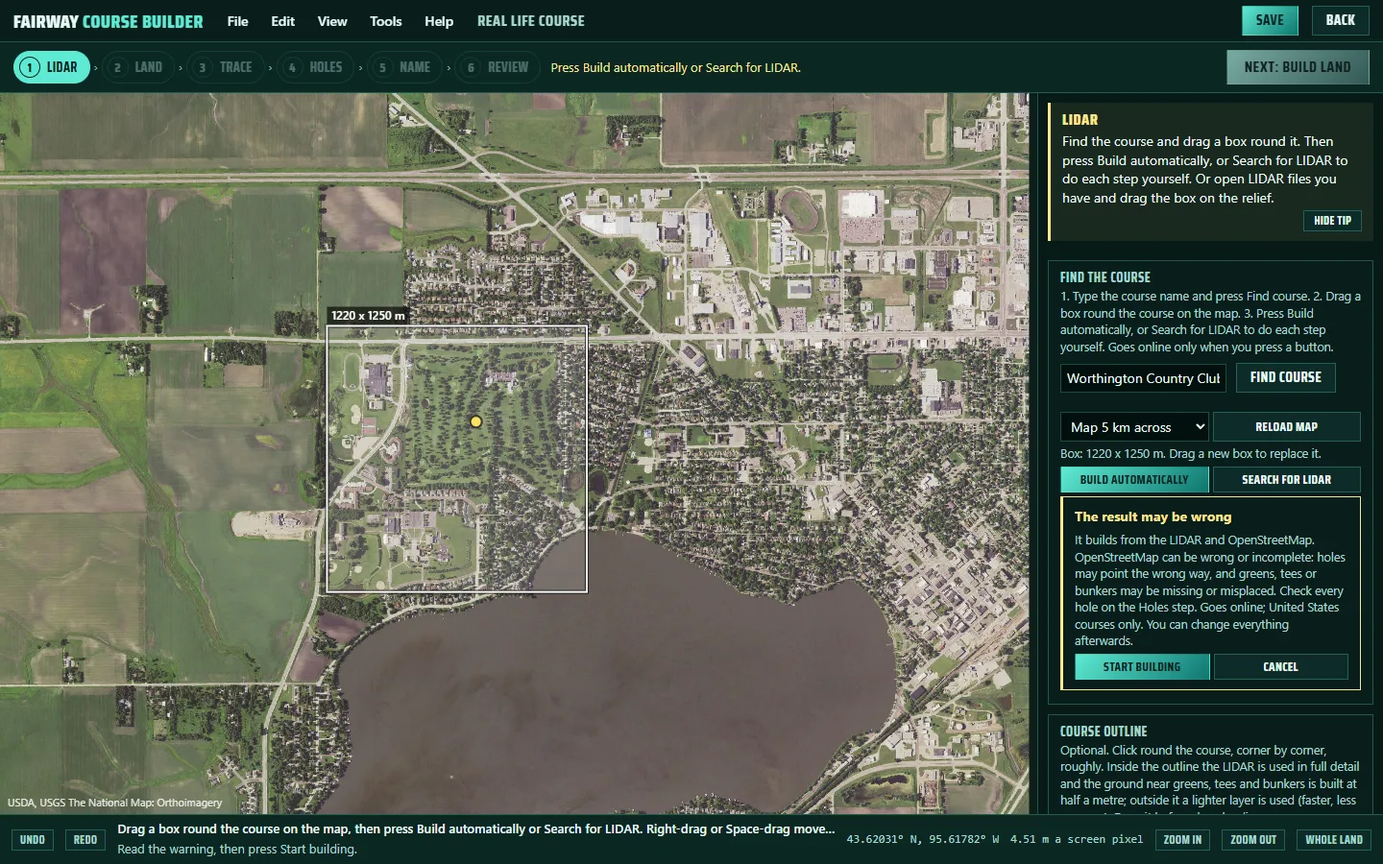
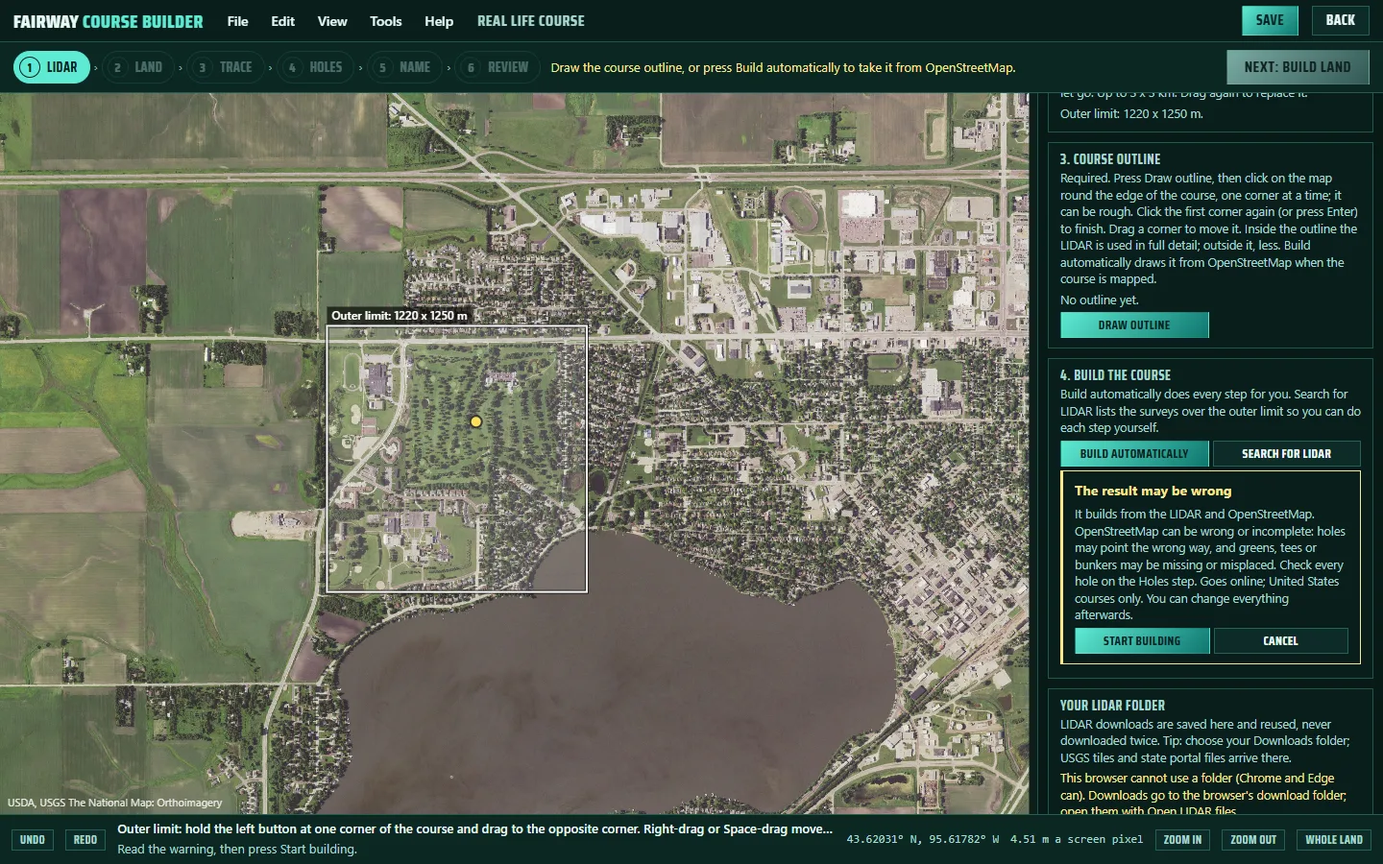
Builder: the course outline is required; the box is the outer limit
The owner, 23 November 2026: "The course boundary is not optional, then
also, we need to indicate that the box in the LIDAR step is the 'outer
limit' and how its drawn in simple terms."

- No download (Download box, Download all tiles) and no land (Next: build
  land, Build land) without the course's outline; Next waits and the step
  bar says "Draw the course outline". Clear outline went. Land already
  built (an older draft) stays reachable. Build automatically still takes
  OpenStreetMap's outline, or asks.
- Step 1's panel is four numbered parts in the order they are done: 1 Find
  the course, 2 Outer limit (what the box is, and how to drag it: point at
  one corner, hold the left button, drag to the opposite corner, let go),
  3 Course outline, 4 Build the course. The box reads "Outer limit" on the
  map, the relief, the status line and the messages.
- Journeys that build land or download draw an outline first
  (door-real.mjs drawOutline); builder-door-2-osm checks Next waits for it;
  the tee-colour check waits for the plan to draw.

Run: every builder journey (Worthington's included); builder-tips test.
Guide pictures retaken. Not yet seen by the owner.

diff --git a/src/builder/door-real.js b/src/builder/door-real.js
@@ -346,7 +346,7 @@ export function open(draft = null) {
  function showHint() {
   const k = LABEL(st.kind).toLowerCase(), r = st.size, view = 'Right-drag or Space-drag moves the view; the wheel zooms.', corners = n => `${n} node${n === 1 ? '' : 's'}: click to add more${n >= 3 ? ', click the first node to close' : ''}; Enter fills, Backspace takes the last off, Esc drops it.`;
   let t = '';
-  if (st.step === 0) t = st.map ? `Drag a box round the course on the map, then press Build automatically or Search for LIDAR. ${view}` : st.preview ? `Drag a box round the course on the relief. ${view}` : '';
+  if (st.step === 0) t = st.ringDraw ? `Click round the edge of the course, one corner at a time; click the first corner or press Enter to finish. ${view}` : st.map ? `Outer limit: hold the left button at one corner of the course and drag to the opposite corner. ${view}` : st.preview ? `Outer limit: hold the left button at one corner of the course on the relief and drag to the opposite corner. ${view}` : '';
   else if (st.step === 3) t = `Hole ${st.hole + 1}: click to place its ${markName(st.mark)}, or drag any mark to move it. ${view}`;
   else if (st.step === 2 && !st.model && st.tool !== 'align') t = st.land ? 'To start: press Download OpenStreetMap or Trace by hand.' : '';
   else if (st.step === 2) {
@@ -397,7 +397,7 @@ export function open(draft = null) {
     const [x0, y0] = p.toScreen(b.x0, b.z0), [x1, y1] = p.toScreen(b.x1, b.z1);
     ctx.fillStyle = 'rgba(255,255,255,.12)'; ctx.fillRect(x0, y0, x1 - x0, y1 - y0);
     ctx.strokeStyle = 'rgba(0,0,0,.7)'; ctx.lineWidth = 4 * px; ctx.strokeRect(x0, y0, x1 - x0, y1 - y0); ctx.strokeStyle = '#ffffff'; ctx.lineWidth = 2 * px; ctx.strokeRect(x0, y0, x1 - x0, y1 - y0);
-    const words = `${(b.x1 - b.x0).toFixed(0)} x ${(b.z1 - b.z0).toFixed(0)} m`;
+    const words = `Outer limit: ${(b.x1 - b.x0).toFixed(0)} x ${(b.z1 - b.z0).toFixed(0)} m`;
     ctx.font = `600 ${12 * px}px system-ui`; const w = ctx.measureText(words).width;
     ctx.fillStyle = 'rgba(0,0,0,.65)'; ctx.fillRect(x0, y0 - 20 * px, w + 10 * px, 18 * px); ctx.fillStyle = '#ffffff'; ctx.fillText(words, x0 + 5 * px, y0 - 6 * px);
    }
@@ -804,7 +804,10 @@ export function open(draft = null) {
 
  // ----------------------------------------------------------------- steps
  const steps = [stepLidar, stepLand, stepTrace, stepHoles, stepName, stepReview];
- const can = n => n === 0 || (n === 1 && (!!st.preview || !!st.land)) || (n >= 2 && !!st.land && (n < 3 || !!st.model) && (n < 4 || st.holes.slice(0, st.holesN).every(h => h?.green && h.tees.length)) && (n !== 2 || true));
+ // The course's outline is required (the owner, 23 November 2026: "The
+ // course boundary is not optional"): no land is built without one, but land
+ // already built (an older draft) stays reachable.
+ const can = n => n === 0 || (n === 1 && (!!st.land || (!!st.preview && !!st.detailRing))) || (n >= 2 && !!st.land && (n < 3 || !!st.model) && (n < 4 || st.holes.slice(0, st.holesN).every(h => h?.green && h.tees.length)) && (n !== 2 || true));
  function go(n) {
   if (!can(n)) return;
   // The map before the LIDAR is step 1's alone: past it, the plan is the land.
@@ -835,7 +838,7 @@ export function open(draft = null) {
  // goal; the owner: "We might need different UI elements to help guide the
  // player").
  const INTRO = [
-  'Find the course and drag a box round it. Then press Build automatically, or Search for LIDAR to do each step yourself. Or open LIDAR files you have and drag the box on the relief.',
+  'Find the course, drag the outer limit (a box round it), and draw the course outline. Then press Build automatically, or Search for LIDAR to do each step yourself. Already have LIDAR files? Open them and do the same on the relief.',
   'Builds the ground heights, trees and water from the LIDAR. Takes a few seconds to a minute.',
   'Trace the course over the photo. Download OpenStreetMap if the club is mapped and fix it with the tools on the left, or trace it by hand.',
   'For each hole: pick a tee set, click the tee, click any bends (aim points), then click the green. The next hole comes up by itself. The scorecard fills in below.',
@@ -853,9 +856,9 @@ export function open(draft = null) {
  }
  st.showTipsAgain = () => { try { localStorage.removeItem(TIPS_KEY); } catch { /* none kept */ } go(st.step); };
  const NEXT = ['Next: build land', 'Next: trace course', 'Next: mark holes', 'Next: name course', 'Next: review course', null];
- const BLOCKED = ['', 'Load LIDAR first', 'Build the land first', 'Start tracing first', 'Every hole needs a tee and a green first', 'Every hole needs a tee and a green first'];
+ const BLOCKED = ['', 'Load LIDAR and draw the course outline first', 'Build the land first', 'Start tracing first', 'Every hole needs a tee and a green first', 'Every hole needs a tee and a green first'];
  function needs(n) {
-  if (n === 0) return st.map && !st.findBox ? 'Drag a box round the course on the map.' : st.map ? 'Press Build automatically or Search for LIDAR.' : !st.preview && !st.land ? 'Find the course, or open LIDAR files.' :!st.box && !st.land ? 'Drag a box round the course on the relief.' : '';
+  if (n === 0) return st.map && !st.findBox ? 'Drag the outer limit: a box round the course on the map.' : st.map ? (st.detailRing ? 'Press Build automatically or Search for LIDAR.' : 'Draw the course outline, or press Build automatically to take it from OpenStreetMap.') : !st.preview && !st.land ? 'Find the course, or open LIDAR files.' : !st.box && !st.land ? 'Drag the outer limit: a box round the course on the relief.' : !st.detailRing && !st.land ? 'Draw the course outline (Draw outline).' : '';
   if (n === 1) return st.land ? '' : 'Build the land from the LIDAR.';
   if (n === 2) return st.model ? '' : 'Download OpenStreetMap, or trace by hand.';
   if (n === 3) {
@@ -1009,7 +1012,7 @@ export function open(draft = null) {
 
  // 1. The LIDAR, and the property.
  const fileList = el('ul'), boxText = el('small');
- const boxInfo = () => { const crs = crsOfSources(st.sources), u = crs ? toMetres(crs) : {h: 1}; boxText.textContent = st.box ? `Box: ${((st.box.x1 - st.box.x0) * u.h).toFixed(0)} x ${((st.box.y1 - st.box.y0) * u.h).toFixed(0)} m. Drag a new box to replace it.` : ''; };
+ const boxInfo = () => { const crs = crsOfSources(st.sources), u = crs ? toMetres(crs) : {h: 1}; boxText.textContent = st.box ? `Outer limit: ${((st.box.x1 - st.box.x0) * u.h).toFixed(0)} x ${((st.box.y1 - st.box.y0) * u.h).toFixed(0)} m.` : 'No outer limit yet: drag a box round the course on the relief.'; };
  // FIND LIDAR FOR A PLACE (the owner, 1 November 2026; lidar-search.js): a
  // place by name, then every source that covers it. Online only when pressed.
  // THE MAP FIRST, THEN THE BOX, THEN THE LIDAR (the owner, 10 November 2026:
@@ -1033,21 +1036,36 @@ export function open(draft = null) {
   // ONE SEARCH BAR FOR BOTH WAYS (the owner, 10 November 2026: "search
   // course, box off the course, click build it for me ... or alternatively,
   // click build it myself"): Build it myself is the search over the box, the
-  // survey picked and each step done by hand.
-  const ready = !!st.findBox, wait = st.find ? 'Drag a box round the course on the map first' : 'Find the course and pick it first';
-  return el('div', {class: 'cb-field cb-buildme'}, el('label', {}, 'Find the course'),
-   el('small', {}, '1. Type the course name and press Find course. 2. Drag a box round the course on the map. 3. Press Build automatically, or Search for LIDAR to do each step yourself. Goes online only when you press a button.'),
+  // survey picked and each step done by hand. (Since 23 November 2026 the
+  // two buttons are a field of their own, buildField, after the outer limit
+  // and the outline.)
+  return el('div', {class: 'cb-field cb-buildme'}, el('label', {}, '1. Find the course'),
+   el('small', {}, 'Type the course name and press Find course. The aerial map comes up round it. Goes online only when you press a button.'),
    el('div', {class: 'cb-row', style: 'margin:4px 0'}, place, el('button', {class: 'cb-btn', type: 'button', title: 'Look the course up by name (OpenStreetMap\'s place search)', onclick: () => findPlace(place.value)}, 'Find course')), findList,
-   st.find ? el('div', {class: 'cb-btns'}, size, el('button', {class: 'cb-btn', type: 'button', 'data-map': 'show', title: `The aerial map round ${st.find.label}, to draw the box on`, onclick: () => fetchMap()}, st.map ? 'Reload map' : 'Show map')) : null,
-   mapText,
+   st.find ? el('div', {class: 'cb-btns'}, size, el('button', {class: 'cb-btn', type: 'button', 'data-map': 'show', title: `The aerial map round ${st.find.label}, to draw the outer limit on`, onclick: () => fetchMap()}, st.map ? 'Reload map' : 'Show map')) : null);
+ }
+ // THE OUTER LIMIT (the owner, 23 November 2026: "we need to indicate that the
+ // box in the LIDAR step is the 'outer limit' and how its drawn in simple
+ // terms"): the box, its own field, said what it is and how to drag it.
+ function limitField() {
+  return el('div', {class: 'cb-field cb-limitfield'}, el('label', {}, '2. Outer limit'),
+   el('small', {}, 'A box round the whole course: nothing outside it is downloaded or built (150 m round it is built as scenery). To draw it: point at one corner of the course on the map, hold the left mouse button, drag to the opposite corner, let go. Up to 3 x 3 km. Drag again to replace it.'),
+   st.map || st.find ? mapText : boxText);
+ }
+ // The two ways on, once the outer limit is drawn (and the outline, or Build
+ // automatically takes OpenStreetMap's).
+ function buildField() {
+  const ready = !!st.findBox, wait = st.find ? 'Drag the outer limit on the map first' : 'Find the course and pick it first';
+  return el('div', {class: 'cb-field'}, el('label', {}, '4. Build the course'),
+   el('small', {}, 'Build automatically does every step for you. Search for LIDAR lists the surveys over the outer limit so you can do each step yourself.'),
    el('div', {class: 'cb-btns'},
-    el('button', {class: 'cb-btn cb-hot', type: 'button', disabled: !ready, 'data-build': 'ask', title: ready ? 'Every step done for you over the box: the USGS LIDAR, the land, the picture, OpenStreetMap\'s course and its holes' : wait, onclick: () => askForMe()}, 'Build automatically'),
-    el('button', {class: 'cb-btn', type: 'button', disabled: !ready, 'data-find': 'search', title: ready ? 'Search every source over the box for its LIDAR (USGS 3DEP, IGN LiDAR HD and swisstopo download here; state and national portals open in a new tab), pick one, and do each step yourself' : wait, onclick: () => { forMeAsk.replaceChildren(); searchAll(); }}, 'Search for LIDAR')),
+    el('button', {class: 'cb-btn cb-hot', type: 'button', disabled: !ready, 'data-build': 'ask', title: ready ? 'Every step done for you inside the outer limit: the USGS LIDAR, the land, the picture, OpenStreetMap\'s course and its holes' : wait, onclick: () => askForMe()}, 'Build automatically'),
+    el('button', {class: 'cb-btn', type: 'button', disabled: !ready, 'data-find': 'search', title: ready ? 'Search every source over the outer limit for its LIDAR (USGS 3DEP, IGN LiDAR HD and swisstopo download here; state and national portals open in a new tab), pick one, and do each step yourself' : wait, onclick: () => { forMeAsk.replaceChildren(); searchAll(); }}, 'Search for LIDAR')),
    forMeAsk, findOut);
  }
  function boxWords() {
   const b = st.mapBox;
-  mapText.textContent = !st.find ? '' : b ? `Box: ${(b.x1 - b.x0).toFixed(0)} x ${(b.z1 - b.z0).toFixed(0)} m. Drag a new box to replace it.` : st.findBox ? 'Box: kept from before.' : st.map ? 'Left-drag a box round the course (max 3 x 3 km). Wheel: zoom. Right-drag or Space: move the map.' : '';
+  mapText.textContent = !st.find ? 'Find the course first.' : b ? `Outer limit: ${(b.x1 - b.x0).toFixed(0)} x ${(b.z1 - b.z0).toFixed(0)} m.` : st.findBox ? 'Outer limit: kept from before.' : st.map ? 'No outer limit yet. (Wheel: zoom. Right-drag or Space: move the map.)' : '';
  }
  async function findPlace(text) {
   if (!text.trim()) return;
@@ -1097,7 +1115,7 @@ export function open(draft = null) {
    plan.setLand(frame.land); plan.setLayerCanvas('picture', canvas, frame.land.cell); plan.setFilter('picture', null); plan.setAlpha('picture', 1);
    const here = frame.toLocal(f.lon, f.lat); plan.look(here.x, here.z, plan.view.scale);
    boxWords(); go(0);
-   say(`The map round ${f.label.split(',')[0]} (${p.name}, ${size / 1000} km across${pic.missing ? `, ${pic.missing} pieces missing` : ''}). Drag a box round the course, then press Build automatically or Search for LIDAR.${st.mapBox ? ' Your box is kept.' : ''}`);
+   say(`The map round ${f.label.split(',')[0]} (${p.name}, ${size / 1000} km across${pic.missing ? `, ${pic.missing} pieces missing` : ''}). Drag the outer limit: a box round the whole course.${st.mapBox ? ' Your outer limit is kept.' : ''}`);
   } catch (e) {
    st.findBox ??= squareAround(f.lon, f.lat, 1500); boxWords(); go(0);
    say(`The map did not come (${e.message}), so the box is a 1.5 km square round the place. Press Build automatically or Search for LIDAR.`, true);
@@ -1107,7 +1125,7 @@ export function open(draft = null) {
  // list (over another box) goes.
  function boxChosen() {
   st.findBox = boxDegrees(st.map, st.mapBox); findOut.replaceChildren(); boxWords(); go(0);
-  say(`Box: ${(st.mapBox.x1 - st.mapBox.x0).toFixed(0)} x ${(st.mapBox.z1 - st.mapBox.z0).toFixed(0)} m. Press Build automatically or Search for LIDAR, or drag a new box.`);
+  say(`Outer limit: ${(st.mapBox.x1 - st.mapBox.x0).toFixed(0)} x ${(st.mapBox.z1 - st.mapBox.z0).toFixed(0)} m. Next: draw the course outline (or press Build automatically). Drag again to replace the outer limit.`);
  }
  // Leaving the map (another step, or the LIDAR come): the plan shows the land
  // again, or the relief, or nothing yet.
@@ -1237,7 +1255,11 @@ export function open(draft = null) {
   return [...done];
  }
  const keptSaid = (names, dir) => names.length ? `Saved to ${dir ? `your LIDAR folder (${dir.name})` : 'your browser\'s download folder'}: ${names.join(', ')}. ` : '';
+ // No download without the course's outline: it decides where the survey is
+ // fetched in full.
+ const outlineFirst = () => st.detailRing ? false : (say('Draw the course outline first (Course outline > Draw outline): the LIDAR is downloaded in full inside it.', true), true);
  async function fetchLidar(found) {
+  if (outlineFirst()) return;
   const dir = await ensureFolder();
   setBusy('Downloading the LIDAR…');
   try {
@@ -1280,6 +1302,7 @@ export function open(draft = null) {
   return names;
  }
  async function viaDownloads(found) {
+  if (outlineFirst()) return;
   const tiles = found.tileUrls, dir = await ensureFolder(), n = tiles.length;
   const inFolder = new Map();
   for (const t of tiles) { const f = await fileIn(dir, t.name, t.bytes || null); if (f) inFolder.set(t.name, f); }
@@ -1340,7 +1363,7 @@ export function open(draft = null) {
  }
  async function buildForMe() {
   const place = st.find, box = st.findBox;
-  if (!place || !box) return say('Find the course and drag a box round it on the map first.', true);
+  if (!place || !box) return say('Find the course and drag the outer limit round it on the map first.', true);
   // The folder first, while the press still counts as one (a browser asks for
   // leave to use a folder only inside a click).
   const dir = await ensureFolder();
@@ -1418,10 +1441,9 @@ export function open(draft = null) {
     el('button', {class: 'cb-btn', type: 'button', 'data-recover': 'no', onclick: () => { dropDraft(); recoverBox.replaceChildren(); say('Draft deleted.'); }}, 'Delete draft'))));
  });
  function stepLidar() {
-  return [recoverBox, findField(), outlineField(), folderField(), el('div', {class: 'cb-field'}, el('label', {}, 'LIDAR files'),
-   el('small', {}, 'Point clouds: LAS, LAZ, COPC, E57, PLY, PTS, PTX, XYZ/TXT/CSV. Height grids: GeoTIFF, ASCII grid, FLT with .hdr, BIL, HGT. Or a ZIP of these. Pick several at once; a .prj or .hdr with the same name is read too. Coverage shows yellow.'),
+  return [recoverBox, findField(), limitField(), outlineField(), buildField(), folderField(), el('div', {class: 'cb-field'}, el('label', {}, 'LIDAR files'),
+   el('small', {}, 'Already have LIDAR files? Open them here instead of steps 1 and 4: the relief shows, and you drag the outer limit and draw the outline on it. Point clouds: LAS, LAZ, COPC, E57, PLY, PTS, PTX, XYZ/TXT/CSV. Height grids: GeoTIFF, ASCII grid, FLT with .hdr, BIL, HGT. Or a ZIP of these. Coverage shows yellow.'),
    el('button', {class: 'cb-btn cb-hot', type: 'button', title: 'Pick LIDAR files from anywhere on this computer', onclick: chooseLand}, 'Open LIDAR files'), fileList),
-  el('div', {class: 'cb-field'}, el('label', {}, 'Property box'), el('small', {}, 'Left-drag a box round the course (max 3 x 3 km). 150 m beyond it is built too. Wheel: zoom. Right-drag or Space: move the view.'), boxText),
   next(1)];
  }
  async function chooseLand() {
@@ -1531,7 +1553,7 @@ export function open(draft = null) {
  // Its area in hectares, as the plan in view measures it.
  const ringHa = ring => { const f = ringFrame(); if (!f || !ring?.length) return st.detailMap ? 0 : ringHectares(ring); const q = ring.map(([a, b]) => f.to(a, b)); let s = 0; for (let i = 0, j = q.length - 1; i < q.length; j = i++) s += q[j].x * q[i].z - q[i].x * q[j].z; return Math.abs(s) / 2 / 1e4; };
  const outlineText = el('small', {class: 'cb-outlinesaid'});
- const ringSaid = () => { outlineText.textContent = st.ringDraw ? `Outlining: ${st.ringDraw.length} corner${st.ringDraw.length === 1 ? '' : 's'}. Click the first corner or press Enter to finish; Esc cancels.` : st.detailRing ? `Outline: ${ringHa(st.detailRing).toFixed(0)} ha. Drag a corner to move it.` : 'No outline: the whole survey is used.'; };
+ const ringSaid = () => { outlineText.textContent = st.ringDraw ? `Outlining: ${st.ringDraw.length} corner${st.ringDraw.length === 1 ? '' : 's'}. Click the first corner or press Enter to finish; Esc cancels.` : st.detailRing ? `Outline: ${ringHa(st.detailRing).toFixed(0)} ha. Drag a corner to move it.` : 'No outline yet.'; };
  function startRing() { const f = ringFrame(); if (!f) return say('Find the course or open LIDAR files first.', true); st.ringDraw = []; st.ringDrawMap = f.canDeg === false; st.ringDrag = null; ringSaid(); say('Click round the course, corner by corner. Click the first corner or press Enter to finish.'); plan.draw(); }
  function closeRing() {
   if (!st.ringDraw || st.ringDraw.length < 3) { st.ringDraw = null; ringSaid(); plan.draw(); return; }
@@ -1569,15 +1591,14 @@ export function open(draft = null) {
  function outlineField() {
   ringSaid();
   const can = !!(st.map || st.preview || st.land);
-  return el('div', {class: 'cb-field cb-outlinefield'}, el('label', {}, 'Course outline'),
-   el('small', {}, 'Optional. Click round the course, corner by corner, roughly. Inside the outline the LIDAR is used in full detail and the ground near greens, tees and bunkers is built at half a metre; outside it a lighter layer is used (faster, less memory). Draw it before downloading.'),
+  return el('div', {class: 'cb-field cb-outlinefield'}, el('label', {}, '3. Course outline'),
+   el('small', {}, 'Required. Press Draw outline, then click on the map round the edge of the course, one corner at a time; it can be rough. Click the first corner again (or press Enter) to finish. Drag a corner to move it. Inside the outline the LIDAR is used in full detail; outside it, less. Build automatically draws it from OpenStreetMap when the course is mapped.'),
    outlineText,
    el('div', {class: 'cb-btns'},
-    el('button', {class: 'cb-btn', type: 'button', 'data-outline': 'draw', disabled: !can, title: can ? 'Click round the course on the map or the relief' : 'Find the course or open LIDAR files first', onclick: startRing}, st.detailRing ? 'Redraw outline' : 'Draw outline'),
-    st.detailRing ? el('button', {class: 'cb-btn', type: 'button', 'data-outline': 'clear', title: 'Use the whole survey everywhere', onclick: () => { st.detailRing = null; st.detailMap = false; st.ringDraw = null; go(st.step); say('Outline cleared: the whole survey is used.'); }}, 'Clear outline') : null));
+    el('button', {class: 'cb-btn' + (st.detailRing ? '' : ' cb-hot'), type: 'button', 'data-outline': 'draw', disabled: !can, title: can ? 'Click round the course on the map or the relief' : 'Find the course or open LIDAR files first', onclick: startRing}, st.detailRing ? 'Redraw outline' : 'Draw outline')));
  }
  // What to do once the LIDAR is in: the box from the map is the property already.
- const nextWords = () => st.boxFromMap ? 'The box from the map is used. Drag a new box on the relief to change it, then press Next: build land.' : 'Drag a box round the course on the relief, then press Next: build land.';
+ const nextWords = () => `${st.boxFromMap ? 'The outer limit from the map is used (drag a new one on the relief to change it).' : 'Drag the outer limit round the course on the relief.'} ${st.detailRing ? 'Then press Next: build land.' : 'Then draw the course outline and press Next: build land.'}`;
  // `degrees`: the box searched for ({lon0, lat0, lon1, lat1}), made the property.
  async function previewLand(degrees = null) {
   const box = sourcesBox(st.sources), unit = toMetres(crsOfSources(st.sources));
@@ -1613,6 +1634,7 @@ export function open(draft = null) {
  }
  async function buildLand() {
   if (!st.box) return say('Load the LIDAR first.', true);
+  if (!st.detailRing) { go(0); return say('Draw the course outline first (step 1, Course outline > Draw outline).', true); }
   if (st.sources.some(s => s.restored)) return say('This draft keeps the land it built, not the LIDAR files: bring them again in step 1 to build the land anew.', true);
   if (st.building) return;
   st.building = true;

diff --git a/docs/TESTING.md b/docs/TESTING.md
@@ -600,7 +600,7 @@ printing the close-up sheet's square, texel and redraw time
 | `builder-opens` | the builder opens offline on its three doors with its version line; a door opens and Back returns |
 | `builder-shaping` | a frozen nine opened from its file; forty raise dabs timed (the model and the view's redraw; fails over 33 ms a dab); one undo for the drag; saved, and the world the game builds from the file has the hill to the centimetre |
 | `builder-tools` | every editor tool by its button and the mouse (outline, pond, creek, bunker, plant and clear trees, a green moved, a bunker dug in the open and carried off by Move shape and put back by Undo), Undo, the checks and a test round reporting, saved; each change found in the file read back in Node |
-| `builder-door-2` | door 2 end to end in the owner's order (first Find the course: a place found, the map round it shown from a stand-in USGS tile cache, Build automatically and Search for LIDAR waiting until a 1,200 x 900 m box is dragged round the place on it, then Search for LIDAR: every source over the box searched -- the National Map stood in for -- its survey listed with both download buttons and Minnesota's own portal linked; then the trace step also: every layer listed water to rough with empty ones marked, the banner naming the brush, the smooth view drawn after a stroke, semi-rough extrapolated round the fairway, the landscape changed to a links for heather): a LIDAR survey made by the journey (LAS 1.2 with colour, a nine-hole parkland with a pond, bunkers and trees) brought in and the property boxed by a left drag; the course's outline drawn on the relief by Draw outline, four clicks and the first corner again, the box left as it was, a corner dragged 20 m (22 November 2026); the land, started by Next: build land alone (no second press); the place searched for and imagery fetched (both stood in for with `page.route` -- the journey's `t.allow` names those addresses, every other request still fails it), placed; the picture's opacity set, the LIDAR drawn on top as slope; the picture unlocked, dragged 6 m into line, nudged with the arrow keys (a quarter metre, a metre with Shift), locked, and a drag and an arrow after that move nothing; the wheel zooms and the right button drags the view; the auto trace, then a brush stroke, that bunker moved 12 m whole by Move shape (the banner naming it while dragged) and put back by Undo, a fairway painted over that bunker (the bunker stays: layers), the sand layer hidden (the view shows the fairway, the course keeps the bunker), an outline of heather, a tree zone and Undo; nine holes with an aim point, each green bringing the next hole up with its blue tee in hand (no Next hole pressed; since 22 November 2026), and a blue and a red tee read off the plan in their own colours; Save from step 4 (a stand-in save dialog: the first Save asks, the second and Ctrl+S write the same file, the bar names the draft), the course renamed and Save asking for a new file, the draft opened again from the start page back at step 5 with its sand, trees and holes; the name; the painted review (the bend in hole 1's line, the surfaces, the imagery's credit); the editor, which lists the same layers and hides one, draws its surfaces finer than its grid (from the outlines), and flies forward on W and down on Q; saved; the built game plays a tee shot on it; since amendment 16 also Ctrl+Shift+Z redoing a tree zone, Clear trees from tees and greens leaving no crown over a green, the scorecard (nine holes and a total, white as blue with one tee, no typed yards, a par and an index set and found in the course), in the editor only a links' own ground types, its sky and round trees, Tree height growing the trees taller and wider at once, Size a tree and This tree sizing one tree twice as tall and Undo putting it back, the view following a resized window, sand painted and a hill raised in 3D, Back to 2D (asking nothing) with both in the trace and the note saying so, and the plan filling its place, the editor again with both, and Close asking twice |
+| `builder-door-2` | door 2 end to end in the owner's order (first Find the course: a place found, the map round it shown from a stand-in USGS tile cache, Build automatically and Search for LIDAR waiting until a 1,200 x 900 m box is dragged round the place on it, then Search for LIDAR: every source over the box searched -- the National Map stood in for -- its survey listed with both download buttons and Minnesota's own portal linked; then the trace step also: every layer listed water to rough with empty ones marked, the banner naming the brush, the smooth view drawn after a stroke, semi-rough extrapolated round the fairway, the landscape changed to a links for heather): a LIDAR survey made by the journey (LAS 1.2 with colour, a nine-hole parkland with a pond, bunkers and trees) brought in and the property boxed by a left drag; the course's outline drawn on the relief by Draw outline, four clicks and the first corner again, the box left as it was, a corner dragged 20 m (22 November 2026; required since 23 November: builder-door-2-osm checks Next waits for it, and every journey that builds land or downloads draws one, `drawOutline`); the land, started by Next: build land alone (no second press); the place searched for and imagery fetched (both stood in for with `page.route` -- the journey's `t.allow` names those addresses, every other request still fails it), placed; the picture's opacity set, the LIDAR drawn on top as slope; the picture unlocked, dragged 6 m into line, nudged with the arrow keys (a quarter metre, a metre with Shift), locked, and a drag and an arrow after that move nothing; the wheel zooms and the right button drags the view; the auto trace, then a brush stroke, that bunker moved 12 m whole by Move shape (the banner naming it while dragged) and put back by Undo, a fairway painted over that bunker (the bunker stays: layers), the sand layer hidden (the view shows the fairway, the course keeps the bunker), an outline of heather, a tree zone and Undo; nine holes with an aim point, each green bringing the next hole up with its blue tee in hand (no Next hole pressed; since 22 November 2026), and a blue and a red tee read off the plan in their own colours; Save from step 4 (a stand-in save dialog: the first Save asks, the second and Ctrl+S write the same file, the bar names the draft), the course renamed and Save asking for a new file, the draft opened again from the start page back at step 5 with its sand, trees and holes; the name; the painted review (the bend in hole 1's line, the surfaces, the imagery's credit); the editor, which lists the same layers and hides one, draws its surfaces finer than its grid (from the outlines), and flies forward on W and down on Q; saved; the built game plays a tee shot on it; since amendment 16 also Ctrl+Shift+Z redoing a tree zone, Clear trees from tees and greens leaving no crown over a green, the scorecard (nine holes and a total, white as blue with one tee, no typed yards, a par and an index set and found in the course), in the editor only a links' own ground types, its sky and round trees, Tree height growing the trees taller and wider at once, Size a tree and This tree sizing one tree twice as tall and Undo putting it back, the view following a resized window, sand painted and a hill raised in 3D, Back to 2D (asking nothing) with both in the trace and the note saying so, and the plan filling its place, the editor again with both, and Close asking twice |
 | `builder-door-2-worthington` | **local only** (registered when `FAIRWAY_LIDAR_TEST` names the owner's Worthington folder and bench/shots/lidar/ holds the NAIP tiles, the DEM, the OpenStreetMap extract and the card): door 2 through the page on the real tiles -- the property dragged, four pictures, eighteen holes clicked, traced, saved -- then the file measured by `tools/built-compare.mjs` (ground against USGS's DEM, fails over 5 cm at the median; outlines; lengths; a test round, fails if a hole sticks) and a tee shot played in the game; and the landscape suggested from where the survey lies -- Classic Parkland since the landscapes were pared to fifteen (Heartland before 8 November 2026), chosen unasked. Its holes are clicked where OpenStreetMap puts them, which the owner says is wrong for Worthington (many holes pointing the wrong way): the journey tests the clicking, not the map. The course file goes to the game as base64 (door-generate.mjs `playOneShot`): as an array of numbers it ran the harness out of memory |
 | `builder-lidar-folder` | (Back to the start asking twice) door 2's LIDAR folder (a stand-in folder in the page; the National Map, Hobu's Entwine index and USGS's Entwine copy stood in for with `page.route`): the place found as a button, every shown button with a tooltip, Download all tiles offered, the map shown (a stand-in USGS tile cache) and a 1.5 km box dragged round the place on it, Search for LIDAR, the box and 150 m past it downloaded once and kept in the folder as its ZIP, the box the property on the relief (1,495-1,580 m a side in the survey's grid, turned about 1.8 degrees from north), its coverage drawn yellow, door 2 opened again and the square read from the folder with nothing asked of USGS, List folder files, its tick box keeping its size, listing it ticked |
 | `builder-door-2-osm` | door 2 from OpenStreetMap: first a ZIP of zLAS files, named in the file list with the converters and the map search, nothing read (22 November 2026); then the made-up survey inside a ZIP with a README, read through `readZipFile` and listed as *ZIP / file* with its points; the place searched for and OpenStreetMap fetched (both stood in for with `page.route`), its surfaces laid where it draws them, its nine numbered holes set with hole 1 on its green and the map's par kept, a second course at the club picked by the Course choice with its own hole 1 and picked back, its course boundary and a building (as a house) taken, whose trees three ways (the survey's with the map's one in the open, the map's only, the survey's only), the outside of the boundary filled keeping the map's pond and house there, undone, and filled removing them -- every tree outside then a canopy height or one of the survey's trees' (22 November 2026) -- its nine numbered holes set as markers, credited, the trees choice inside the steps' column; kept as drawn; reviewed; in the editor the house drawn, one refused on the fairway, one stood on the rough by the House tool and undone; saved, and the game plays a tee shot |

diff --git a/docs/PROJECT_HANDOFF.md b/docs/PROJECT_HANDOFF.md
@@ -119,7 +119,7 @@ Rules, scoring, and the things that persist between sessions.
 | src/round-library.js | Rounds in progress, kept on this device. The sibling of course-library.js and deliberately the opposite kind of store. Each keeps its shot log (`shots`, rival.js) beside the round |
 | src/course-library.js | Named courses in localStorage, and the portable export/import code |
 | src/zip.js | A ZIP written and read by hand on the browser's CompressionStream: the container a built course file is (course builder, 31 October 2026). **A player's ZIP is never read whole** (22 November 2026): `readZipFile` reads one of any size from its file, the directory from its end, ZIP64 followed, each part sliced out only when read -- a browser will not hand over a 6.2 GB file in one piece, and `readZip(arrayBuffer())` failed with NotReadableError and nothing on screen. `readZip` stays for the builder's own small files (drafts, kept squares) |
-| src/lidar/detail.js, src/builder/outline-ring.js | **FULL DETAIL INSIDE THE COURSE'S OUTLINE, LESS OUTSIDE** (22 November 2026). The rough outline drawn in door 2's LIDAR step (or OpenStreetMap's `leisure=golf_course` round the place found, from Build automatically -- osm.js `courseOutline`, never simply the largest) is `st.detailRing`, [lon, lat] (the survey's own map units, `detailMap`, where it states no grid), kept in the draft, and never the course boundary traced later. It decides three things. (1) A USGS download (lidar-search.js `pickNodes`): every Entwine depth meeting it (grown 30 m), and outside only the depths reaching 70% of `DETAIL.outsidePerCell` points a land cell. (2) A kept square's record: `cube` and `points` (every node over the box with its count) and each square's `detail`, so the same box with the same outline reads from the folder, another outline fetches only what it lacks, and `choose(detail)` thins a kept file opened from disk -- **an older file has no record and is read whole**. Its pieces are read in their turn (`read()`), the file written with `zipStream` (never one array), and the source `rebind`s to the written file before the squares it replaces are removed. (3) The land's `fine` ground (land.js): the half-metre ground inside the outline, as millimetres off the 1 m land, kept in the draft (`land/fine.bin`); real-course.js `finePatches` lays it back on as the file's `patches` round bunkers, tees and greens, each difference less a 2 cm noise floor (`PATCH_FLOOR`) -- **only where the 1 m ground is still the survey's own**: never on a smoothed green, tee or fairway, a green's eased surround, the 3D editor's shaping, a dug bunker, a carved creek or a pond's bed (each would be undone). A file opened without its builder section (draft-from-doc.js) has no fine ground: its first trip back to 2D keeps the patches' heights on the one grid, as a generated course's do. |
+| src/lidar/detail.js, src/builder/outline-ring.js | **FULL DETAIL INSIDE THE COURSE'S OUTLINE, LESS OUTSIDE** (22 November 2026). The rough outline drawn in door 2's LIDAR step (or OpenStreetMap's `leisure=golf_course` round the place found, from Build automatically -- osm.js `courseOutline`, never simply the largest) is `st.detailRing` -- **required** since 23 November 2026 (no download, no land without it; `can(1)`, `outlineFirst`) --, [lon, lat] (the survey's own map units, `detailMap`, where it states no grid), kept in the draft, and never the course boundary traced later. It decides three things. (1) A USGS download (lidar-search.js `pickNodes`): every Entwine depth meeting it (grown 30 m), and outside only the depths reaching 70% of `DETAIL.outsidePerCell` points a land cell. (2) A kept square's record: `cube` and `points` (every node over the box with its count) and each square's `detail`, so the same box with the same outline reads from the folder, another outline fetches only what it lacks, and `choose(detail)` thins a kept file opened from disk -- **an older file has no record and is read whole**. Its pieces are read in their turn (`read()`), the file written with `zipStream` (never one array), and the source `rebind`s to the written file before the squares it replaces are removed. (3) The land's `fine` ground (land.js): the half-metre ground inside the outline, as millimetres off the 1 m land, kept in the draft (`land/fine.bin`); real-course.js `finePatches` lays it back on as the file's `patches` round bunkers, tees and greens, each difference less a 2 cm noise floor (`PATCH_FLOOR`) -- **only where the 1 m ground is still the survey's own**: never on a smoothed green, tee or fairway, a green's eased surround, the 3D editor's shaping, a dug bunker, a carved creek or a pond's bed (each would be undone). A file opened without its builder section (draft-from-doc.js) has no fine ground: its first trip back to 2D keeps the patches' heights on the one grid, as a generated course's do. |
 | src/course-doc.js | A BUILT course (Fairway Course Builder) as a document and as a `.fairway` version-2 file: land and green patches as height grids, surfaces as outlines, holes, water, trees; limits checked on read. docs/COURSE_BUILDER.md |
 | builder.html, vite.builder.config.js, src/builder/ | Fairway Course Builder, the second page in every download, built single-file after the game; its shell, doors and editor |
 | tools/builder-smoke.mjs | The builder's page driven in a real browser by file://; fails on any error or request |

diff --git a/docs/PLAYING.md b/docs/PLAYING.md
@@ -576,18 +576,20 @@ changes, newest first, each with **Undo to here**.
      golf courses first). The aerial map of the
      ground round it comes up on the plan, 5 km across (**Map 3 km**, **5 km**
      or **8 km across** beside **Reload map**, if the course is not
-     on it), with a gold pin where the name was found. **Drag a box round the
-     course** on the map with the left button (up to 3 x 3 km; it shows its
-     size, and another drag replaces it). **Course outline** (optional, under
-     it): **Draw outline**, click round the course corner by corner, roughly,
-     and click the first corner or press Enter to finish (Esc cancels,
-     Backspace takes the last corner off; drag a corner to move it after).
-     Inside the outline the LIDAR is downloaded and used in full detail, and
-     on a course over 2.25 km² the ground round greens, tees and bunkers is
-     built at half a metre; outside it a lighter layer is used -- a faster
-     download and less memory. Draw it before downloading; **Clear outline**
-     uses the whole survey. Then one of two buttons, both waiting
-     for the box:
+     on it), with a gold pin where the name was found. **Outer limit**: a box
+     round the whole course -- nothing outside it is downloaded or built (150
+     m round it is built as scenery). Point at one corner of the course, hold
+     the left mouse button, drag to the opposite corner and let go (up to 3 x
+     3 km; it shows its size, and another drag replaces it). **Course
+     outline** (required): **Draw outline**, click round the edge of the
+     course one corner at a time, roughly, and click the first corner or
+     press Enter to finish (Esc cancels, Backspace takes the last corner off;
+     drag a corner to move it after). Inside the outline the LIDAR is
+     downloaded and used in full detail, and on a course over 2.25 km² the
+     ground round greens, tees and bunkers is built at half a metre; outside
+     it less is used. No LIDAR is downloaded and no land built without it.
+     Then **Build the course**: one of two buttons, both waiting
+     for the outer limit:
      **Build automatically** takes the course outline from OpenStreetMap
      when none is drawn (if the map has none it asks you to draw one; if the
      map does not answer it uses the whole survey), and first warns that the result may be wrong
@@ -650,8 +652,8 @@ changes, newest first, each with **Undo to here**.
      XYZ/TXT/CSV points, height grids (GeoTIFF, ASCII grid, float grid with
      its .hdr, BIL, SRTM HGT), or a ZIP of them (a portal's download, of any size: it is read a file at a time). **zLAS** files (`.zlas`, Esri's own compressed LIDAR, which West Virginia's download tool hands out) cannot be read: the list says so, and that Esri's free LAS Optimizer turns them into LAS, or that searching the map fetches USGS LIDAR for the place instead. A file the browser cannot read is said so in the list, with its size when it is too big to read in one piece. Several tiles at once; a .prj or .hdr beside a
      file is read with it. Where the files reach shows **yellow** over the
-     relief, each file's box outlined yellow with its name; the property box
-     is white. Each file is listed with its form, its size, its map
+     relief, each file's box outlined yellow with its name; the outer limit
+     is white, the course outline cyan and dashed. Each file is listed with its form, its size, its map
      grid and its units (feet are converted to metres). Surveys in US State
      Plane (Lambert or transverse Mercator, in feet or metres), UTM, the
      British grid, the Swiss grid (to about a metre) and the like are placed for imagery and OpenStreetMap by
@@ -660,9 +662,10 @@ changes, newest first, each with **Undo to here**.
      (https://apps.nationalmap.gov/downloader/, *Elevation Source Data*), of
      England from the Environment Agency, and of many other countries from
      their mapping agencies. With files of your own (no map was drawn on),
-     **drag a box round the course** on the relief with the left button (up
-     to 3 x 3 km); after a search, the box from the map is already there, and
-     a drag on the relief changes it.
+     **drag the outer limit** round the course on the relief with the left
+     button (up to 3 x 3 km) and **draw the course outline** on it; after a
+     search, the outer limit from the map is already there, and a drag on
+     the relief changes it.
   2. **Land**: **Next: build land** starts building the land at once --
      the box is already the property, so there is nothing more to press.
      After the box is changed, **Build it again** (pressing Next does it too

diff --git a/docs/BUILDER_GUIDE.md b/docs/BUILDER_GUIDE.md
@@ -50,27 +50,28 @@ zoomed in -- click it to go there.
 
 ## A real course: find it, box it, build it
 
-![The map round Worthington Country Club, a box dragged round the course](builder-guide/map-box.webp)
+![The map round Worthington Country Club, the outer limit dragged round the course](builder-guide/map-box.webp)
 
-Under **Find the course**, type the course's name (add its town if the name is
-common) and press **Find course**. A golf course on the map is taken at once, even
-over a town of the same name; if the search finds several places, click the
-one you mean. The builder shows the aerial map of the ground round it, 5 km
-across (**Map 3 km** or **8 km** if the course is not on it). Drag a box round
-the course with the left button -- up to 3 x 3 km. That box is the property:
-only it, and 150 m past it for the land beyond the course, is downloaded and
-built.
+Step 1's panel runs in four parts, in order:
 
-**Course outline** (optional). Press **Draw outline** and click round the
-course, roughly, corner by corner; click the first corner or press Enter to
-finish. Drag a corner to move it. Inside the outline the LIDAR is used in full
-detail, and on a large property the ground round greens, tees and bunkers is
-built at half a metre; outside it a lighter layer is used, which downloads
-faster and uses less memory. **Build automatically** takes the outline from
-OpenStreetMap if you have not drawn one. Putting surfaces are always smoothed,
-so a putt holds its line.
-
-Then choose how to build it.
+1. **Find the course.** Type the course's name (add its town if the name is
+   common) and press **Find course**. A golf course on the map is taken at
+   once, even over a town of the same name; if the search finds several
+   places, click the one you mean. The aerial map comes up round it, 5 km
+   across (**Map 3 km** or **8 km** if the course is not on it).
+2. **Outer limit.** A box round the whole course: nothing outside it is
+   downloaded or built (150 m round it is built as scenery). To draw it, point
+   at one corner of the course on the map, hold the left mouse button, drag
+   to the opposite corner and let go. Up to 3 x 3 km; drag again to replace it.
+3. **Course outline** (required). Press **Draw outline** and click round the
+   edge of the course, one corner at a time; it can be rough. Click the first
+   corner again (or press Enter) to finish; drag a corner to move it. Inside
+   the outline the LIDAR is used in full detail, and on a large property the
+   ground round greens, tees and bunkers is built at half a metre; outside it
+   less is used. **Build automatically** draws it from OpenStreetMap when the
+   course is mapped. Putting surfaces are always smoothed, so a putt holds its
+   line.
+4. **Build the course**: one of the two ways below.
 
 ### Build automatically
 

diff --git a/docs/COURSE_BUILDER.md b/docs/COURSE_BUILDER.md
@@ -1600,6 +1600,20 @@ What was built:
 Measured on the owner's Alpine Lake square: RESEARCH, *Full detail inside the
 course, less outside*. Not yet used by the owner in the builder.
 
+**Required, and the box is the outer limit** (23 November 2026; the owner:
+"The course boundary is not optional, then also, we need to indicate that
+the box in the LIDAR step is the 'outer limit' and how its drawn in simple
+terms"). No download (Download box, Download all tiles) and no land (Next:
+build land, Build land) without an outline; Next waits with "Draw the course
+outline"; Clear outline went (Redraw replaces it). Land already built, in an
+older draft, stays reachable. Step 1's panel is four numbered parts in the
+order they are done -- 1 Find the course, 2 Outer limit (what the box is,
+and "point at one corner of the course, hold the left mouse button, drag to
+the opposite corner, let go"), 3 Course outline, 4 Build the course (the two
+buttons) -- and the box is labelled *Outer limit* on the map, the relief, the
+status line and the messages. Build automatically still takes OpenStreetMap's
+outline, or stops and asks for one.
+
 ### Buttons that say what they do; panels that read like a manual (22 November 2026)
 
 The owner: "please make the buttons that have text on them just say what
